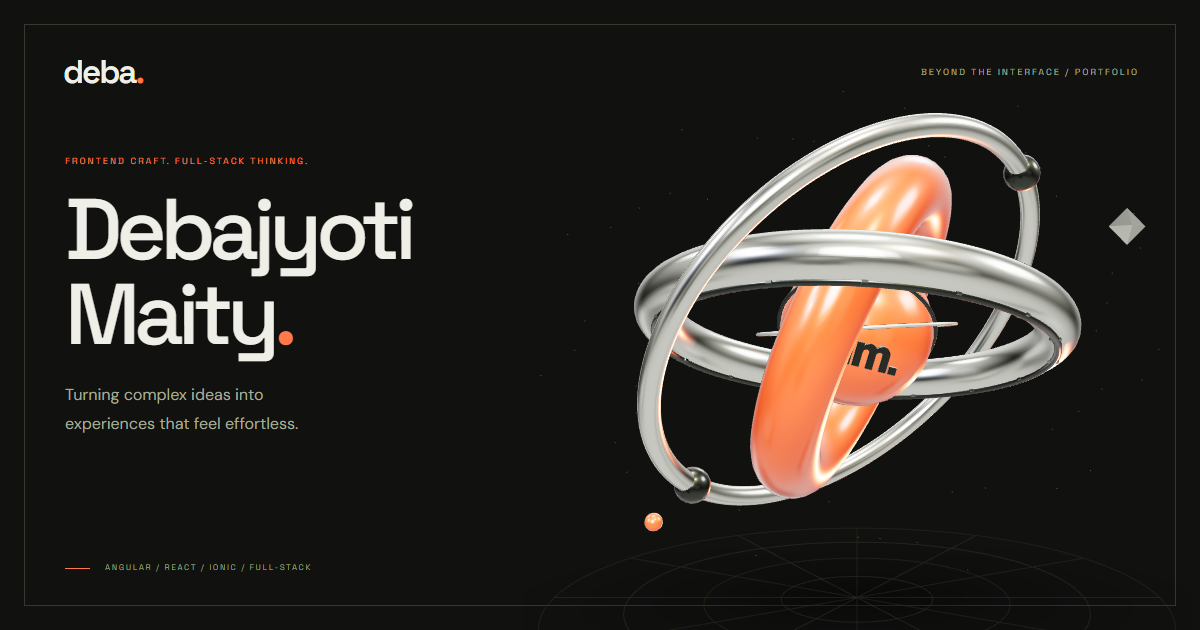
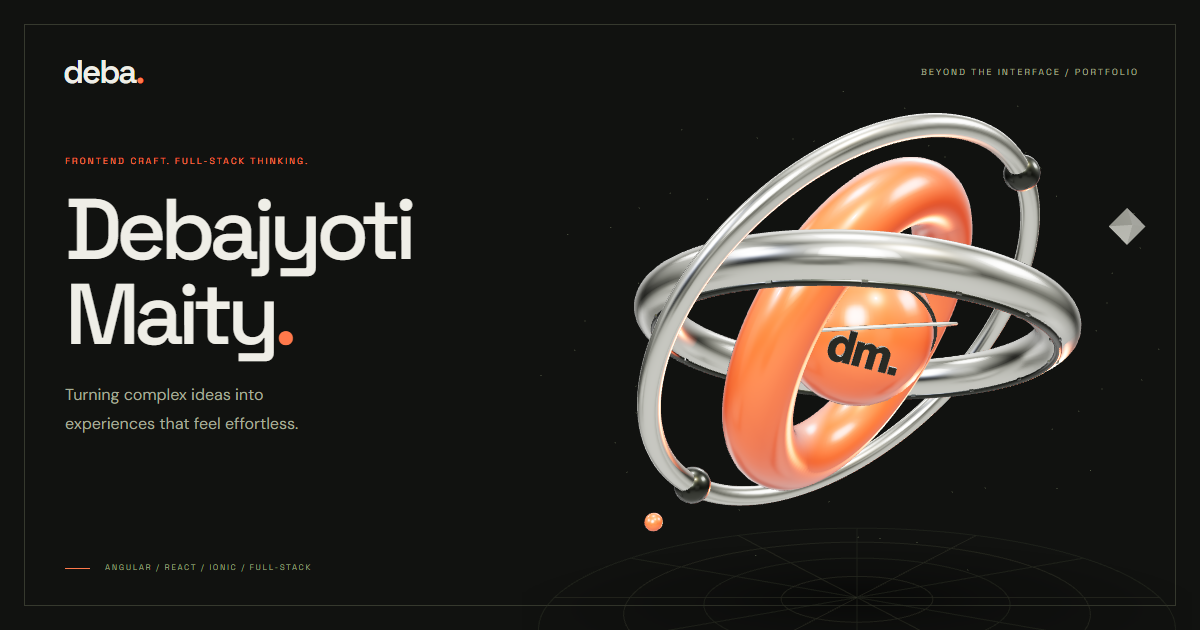
Update Site source

Changed region(s): [[0.5858, 0.4524, 0.7708, 0.8143], [0.6475, 0.2413, 0.8325, 0.3921], [0.7708, 0.4524, 0.8017, 0.573]]

diff --git a/src/scene.js b/src/scene.js
@@ -166,7 +166,7 @@ function createHero(container) {
       rotation: [1.03, 0.14, -0.2],
       material: chrome,
     },
-    { radius: 1.3, tube: 0.28, rotation: [0.25, 1.18, 0.2], material: orange },
+    { radius: 1.3, tube: 0.28, rotation: [0.25, 0.95, 0.2], material: orange },
     {
       radius: 1.97,
       tube: 0.09,
